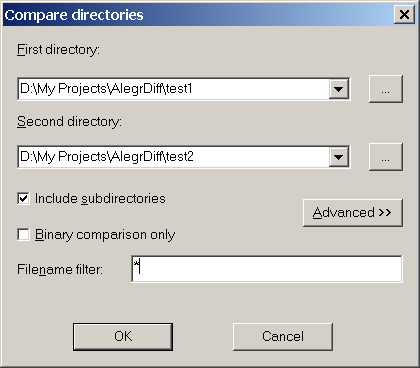
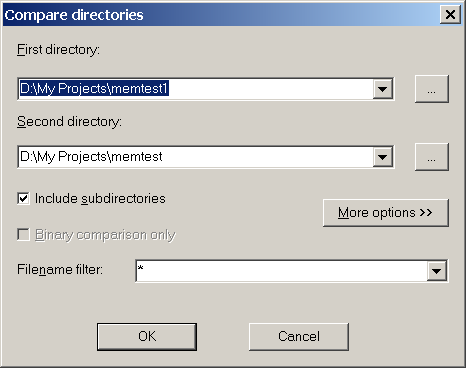
Changed files
Changed file: AlegrDiff.cpp
Changed file: AlegrDiff.rc
Changed file: AlegrDiffDoc.cpp
Changed file: AlegrDiffDoc.h
Changed file: CompareDirsDialog.cpp
Changed file: FileListSupport.cpp
Changed file: FilesCompareDialog.cpp
Changed file: ReadMe.txt
Changed file: help/CompareDirsDlg.png
Changed file: help/TextWithLineNumbers.png
Changed file: help/readme.htm

diff --git a/help/readme.htm b/help/readme.htm
@@ -17,21 +17,21 @@ to merge the text differences from two files.</p>
 another directory, optionally with the subdirectories, or just one file against
 another file. The differences are shown with different font and
 color.</p>
-<p align="left">The files are compared either as text or binary.</p>
+<p align="left">The files are compared either as text or binary. <b>Beta 1.00
+doesn't support binary comparison yet.</b></p>
 <p align="left">To compare just two files, select <font face="Microsoft Sans Serif">File/Compare
-Files</font> command in the menu, or click <img border="0" src="CompareFiles.png" width="16" height="15">
-toolbar button. You will be prompted for the first file, then for the second
-file. The file open dialogs have <b>Recent Dirs</b> combobox, which allows you
-to jump to one of recent folders you used, and <b>Binary comparision</b>
-checkbox:</p>
-<p align="left"><img border="0" src="OpenFirstFile.png" width="600" height="408"></p>
-<p align="left">&nbsp;</p>
+Files...</font> command in the menu, or click <img border="0" src="CompareFiles.png" width="16" height="15">
+toolbar button. You will be presented with <b>Compare Files&nbsp;</b> dialog:</p>
+<p align="left"><img border="0" src="CompareFilesDlg.png" width="504" height="256"></p>
+<p align="left">You can select one of recently used files, by opening the
+combobox list, or browse for file by clicking <img border="0" src="BrowseButton.png" align="center" width="37" height="30">
+button.</p>
 <p align="left">To compare directories, select <b>File/Compare Directories... </b>
 command in the menu, or click <img border="0" src="CompareDirs.png" width="16" height="15">
 toolbar button. In the following dialog you can type in the directory names, or,
-by clicking on the [<b>...] </b>buttons, select them from the directory tree, or
-select from recently used folders.</p>
-<p align="left"><img border="0" src="CompareDirsDlg.png" width="420" height="368"></p>
+browse for directory by clicking <img border="0" src="BrowseButton.png" align="center" width="37" height="30"><b>
+</b>button, or, by opening the combobox list, select from recently used folders.</p>
+<p align="left"><img border="0" src="CompareDirsDlg.png" width="466" height="368"></p>
 <p align="left">In the <b>Filename filter</b> edit box you can specify pattern for the filenames to be included in
 comparison. You can specify one or a
 number of patterns, separated by comma or by semicolon, for example *.c<b> </b>or
@@ -59,7 +59,8 @@ one, by pressing <b>Enter</b> key. The program allows to keep several files open
 which is only in the first or second file is shown with different style and
 color. Default for file 1 text is <font color="#FF0000"><strike>strikethrough,
 red</strike></font>, for file 2 text is <font color="#0000FF"><u>underlined, blue</u></font>.
-You can change this in the <b>Preferences</b> dialog. You can move to the next
+You can change this in the <b>Preferences</b> dialog. The program detects
+inserted and deleted lines, and in-line changes. You can move to the next
 difference by clicking <img border="0" src="NextDiff.png" width="18" height="18">
 button, or by pressing <b>F7</b> key. You can move to the previous difference by
 clicking <img border="0" src="PrevDifference.png" width="18" height="18">
@@ -76,7 +77,7 @@ shows line numbers along with the text. Numbers of lines which are present in
 both files are shown in black, numbers of first-file-only lines are shown in red
 (or whatever color is chosen for the erased text), numbers of second-file-only
 lines are shown in blue:</p>
-<p align="left"><img border="1" src="TextWithLineNumbers.png" width="608" height="155"></p>
+<p align="left"><img border="1" src="TextWithLineNumbers.png" width="735" height="142"></p>
 <p align="left">Toolbar button <img border="0" src="IgnoreWhitespaces.png" width="19" height="20">
 hides whitespace difference. Not all spaces are ignored, but only those which
 don't change the text syntax and meaning. See, for example, the original text:</p>
@@ -101,10 +102,10 @@ the text which goes to the merged file is shown with green background:</p>
 <p align="left"><img border="1" src="MergedText.png" width="436" height="133"></p>
 <p align="left">You can change these colors, by <b>File/Preferences </b>dialog, <b>View</b>
 tab.</p>
-<p align="left">To <b>accept </b>the difference, set the caret on it and select <b>Merge/Accept</b>
-menu command, or click <img border="0" src="AcceptButton.png" width="17" height="17">
-toolbar button, or press <b>Shift+F6</b>. To <b>decline</b> the difference, set
-the caret on it and select <b>Merge/Decline</b> menu command, or click <img border="0" src="DeclineButton.png" width="18" height="18">
+<p align="left">To <b>accept </b>the difference, set the caret on it and select <b>Merge/Merge
+File 1 Text</b> menu command, or click <img border="0" src="AcceptButton.png" width="17" height="17">
+toolbar button, or press <b>Shift+F6</b>. To <b>discard</b> the difference, set
+the caret on it and select <b>Merge/Merge File 2 Text</b> menu command, or click <img border="0" src="DeclineButton.png" width="18" height="18">
 toolbar button, or press <b>F6</b>. You can also do the operation over all the
 differences in the selected text area. Text selection is done by the standard
 keyboard and mouse means. Accept/Decline commands are also available in the
@@ -123,8 +124,48 @@ selecting the corresponding command from <b>File </b>menu. If you change the
 file and save it, you can reload it by pressing <b>F5</b>, to see the most
 current differences. You can enable automatic reload in <b>Preferences</b>
  dialog, <b>Files</b> tab.</p>
-<p align="left">&nbsp;</p>
-<p align="left">&nbsp;</p>
+<p align="left"><b>Setting the preferences</b></p>
+<p align="left">To change file, comparison and view preferences, open <b>Preferences
+</b>dialog by selecting <b>File/Preferences... </b> menu command, or by clicking
+<img border="0" src="PreferencesButton.png" width="18" height="18"> toolbar
+button.</p>
+<p align="left">The <b>Preferences </b>dialog has three tabs: <b> Files</b>, <b>Comparison</b>,
+<b>View</b>. <b>Files </b>tab looks as follows:</p>
+<p align="left"><img border="0" src="FilesPreferences.png" width="482" height="397"></p>
+<p align="left">&quot;Compare the following files as C/C++&quot; checkbox and
+edit field allow to specify files for which C/C++ syntax rules will be used.
+Those rules tell which whitespace can be removed without breaking the syntax.</p>
+
+<p align="left">&quot;Automatically reload modified files&quot; specifies
+whether the program, when it becomes the active application, will check for the
+files last modification time. If any file time changed, the files will be
+automatically reloaded and shown with the new content.</p>
+
+<p align="left"><b>Comparison</b> tab looks as follows:</p>
+
+<p align="left"><img border="0" src="ComparisonTab.png" width="482" height="397"></p>
+
+<p align="left">&quot;Number of consecutive identical lines&quot; specifies how
+many non-blank lines should match when the program looks for identical region.</p>
+
+<p align="left">&quot;Minimal line length for search&quot; specifies minimal
+number of non-space characters in the lines to be checked for single-line match.
+If 1 is specified, even lines with only curly braces will be checked; it may
+cause false detection. Default value is 2.</p>
+<p align="left">&quot;Percent of difference in &quot;looking like&quot;
+lines&quot; specifies how much different lines can be, to be shown as single
+line with in-line differences. The greater is the value, the more different
+lines could be. If two lines are too much different, they will be shown
+separately, as removed and added lines.</p>
+<p align="left">&quot;Minimum matching chars for in-line comparison&quot;
+specifies now many characters should be equal when the program is trying to find
+an identical region, when building list of in-line differences.</p>
+<p align="left"><b>View</b> tab looks as follows:</p>
+<p align="left"><img border="0" src="ViewPreferencesTab.png" width="482" height="397"></p>
+<p align="left">&quot;Tab Indent&quot; specifies now many spaces should be
+substituted for one tab character.</p>
+<p align="left">&quot;Font&quot; and &quot;Background&quot; buttons allow to set
+font and background for the corresponding file view elements.</p>
 
 </body>
 

diff --git a/AlegrDiff.cpp b/AlegrDiff.cpp
@@ -152,7 +152,7 @@ BOOL CAlegrDiffApp::InitInstance()
 	Profile.AddItem(_T("Settings"), _T("CopyFilesDir"), m_CopyFilesDir, _T("."));
 
 	//Profile.AddItem(_T("Settings"), _T("FilenameFilter"), m_sFilenameFilter, _T("*"));
-	Profile.AddItem(_T("Settings"), _T("UseBinaryFilesFilter"), m_bUseBinaryFilesFilter, true);
+	Profile.AddItem(_T("Settings"), _T("UseBinaryFilesFilter"), m_bUseBinaryFilesFilter, false);
 	Profile.AddItem(_T("Settings"), _T("UseCppFilter"), m_bUseCppFilter, true);
 	Profile.AddItem(_T("Settings"), _T("UseIgnoreFilter"), m_bUseIgnoreFilter, true);
 	Profile.AddItem(_T("Settings"), _T("AdvancedCompareDialog"), m_bAdvancedCompareDialog, false);
@@ -415,7 +415,7 @@ void CAlegrDiffApp::OnFilePreferences()
 		m_bUseIgnoreFilter = (0 != dlg.m_FilesPage.m_bUseIgnoreFilter);
 		m_sIgnoreFilesFilter = dlg.m_FilesPage.m_sIgnoreFilesFilter;
 
-		m_AutoReloadChangedFiles = dlg.m_FilesPage.m_AutoReloadChangedFiles;
+		m_AutoReloadChangedFiles = (0 != dlg.m_FilesPage.m_AutoReloadChangedFiles);
 
 		m_TabIndent = dlg.m_ViewPage.m_nTabIndent;
 		m_MinimalLineLength = dlg.m_ComparisionPage.m_MinimalLineLength;
@@ -788,7 +788,7 @@ void CAlegrDiffApp::CompareDirectories(LPCTSTR dir1, LPCTSTR dir2, LPCTSTR filte
 
 		m_TabIndent = dlg.m_nTabIndent;
 
-		m_BinaryComparision = dlg.m_BinaryComparision;
+		m_BinaryComparision = (0 != dlg.m_BinaryComparision);
 
 		m_bAdvancedCompareDialog = dlg.m_bAdvanced;
 
@@ -843,7 +843,7 @@ void CAlegrDiffApp::CompareFiles(LPCTSTR pName1, LPCTSTR pName2)
 		}
 
 		m_UsedFilenameFilter = dlg.m_UsedFilenameFilter;
-		m_BinaryComparision = dlg.m_bBinaryFile;
+		m_BinaryComparision = (0 != dlg.m_bBinaryFile);
 		Name1 = dlg.m_sFirstFileName;
 		Name2 = dlg.m_sSecondFileName;
 	}

diff --git a/FilesCompareDialog.cpp b/FilesCompareDialog.cpp
@@ -114,7 +114,6 @@ void COpenDiffDialog::OnComboSelendOK()
 BOOL COpenDiffDialog::OnFileNameOK()
 {
 	// add the current directory name to MRU
-	int i, j;
 	CThisApp * pApp = GetApp();
 	CString sCurrDir;
 	GetParent()->SendMessage(CDM_GETFOLDERPATH, MAX_PATH, LPARAM(sCurrDir.GetBuffer(MAX_PATH)));
@@ -135,14 +134,29 @@ void COpenDiffDialog::OnInitDone()
 	CComboBox * pCb = static_cast<CComboBox *>(GetDlgItem(IDC_COMBO_RECENT));
 	if (NULL != pCb)
 	{
+		CString dir(m_ofn.lpstrInitialDir);
+		if (dir.GetLength() > 1
+			&& dir[dir.GetLength() - 1] == '\\')
+		{
+			dir.SetAt(dir.GetLength() - 1, 0);
+		}
 		pCb->SetExtendedUI();
 		CThisApp * pApp = GetApp();
+		int sel = -1;
 		for (int i = 0; i < sizeof pApp->m_RecentFolders / sizeof pApp->m_RecentFolders[0]; i++)
 		{
 			if ( ! pApp->m_RecentFolders[i].IsEmpty())
 			{
 				pCb->AddString(pApp->m_RecentFolders[i]);
+				if (0 == pApp->m_RecentFolders[i].CompareNoCase(dir))
+				{
+					sel = i;
+				}
 			}
+		}
+		if (-1 != sel)
+		{
+			pCb->SetCurSel(sel);
 		}
 	}
 }

diff --git a/AlegrDiffDoc.cpp b/AlegrDiffDoc.cpp
@@ -509,6 +509,7 @@ BEGIN_MESSAGE_MAP(CFilePairDoc, CDocument)
 	ON_UPDATE_COMMAND_UI(ID_FILE_COPY_SECOND_DIR_FILE, OnUpdateFileCopySecondDirFile)
 	ON_COMMAND(ID_FILE_COPY_SECOND_DIR_FILE, OnFileCopySecondDirFile)
 	ON_COMMAND(ID_FILE_PROPERTIES, OnFileProperties)
+	ON_UPDATE_COMMAND_UI(ID_FILE_MERGE_SAVE, OnUpdateFileMergeSave)
 	//}}AFX_MSG_MAP
 	ON_UPDATE_COMMAND_UI(ID_INDICATOR_CARET_POS, OnUpdateCaretPosIndicator)
 END_MESSAGE_MAP()
@@ -1812,4 +1813,11 @@ void CFilePairDoc::OnFileProperties()
 
 		dlg.DoModal();
 	}
+}
+
+void CFilePairDoc::OnUpdateFileMergeSave(CCmdUI* pCmdUI)
+{
+	pCmdUI->Enable(m_pFilePair != NULL
+					&& m_pFilePair->pFirstFile != NULL
+					&& m_pFilePair->pSecondFile != NULL);
 }

diff --git a/CompareDirsDialog.cpp b/CompareDirsDialog.cpp
@@ -19,7 +19,7 @@ static char THIS_FILE[] = __FILE__;
 CCompareDirsDialog::CCompareDirsDialog(CWnd* pParent /*=NULL*/)
 	: CDialog(CCompareDirsDialog::IDD, pParent),
 	m_bAdvanced(false),
-	m_bUseBinaryFilesFilter(true),
+	m_bUseBinaryFilesFilter(false),
 	m_bUseCppFilter(true),
 	m_bUseIgnoreFilter(true),
 	m_nTabIndent(4)

diff --git a/FileListSupport.cpp b/FileListSupport.cpp
@@ -2368,8 +2368,10 @@ FilePair::eFileComparisionResult FilePair::CompareFiles()
 	{
 		// just build the line array
 		FileItem * pFile = pFirstFile;
+		result = OnlyFirstFile;
 		if (NULL == pFile)
 		{
+			result = OnlySecondFile;
 			pFile = pSecondFile;
 		}
 		if (NULL != pFile)

diff --git a/AlegrDiffDoc.h b/AlegrDiffDoc.h
@@ -199,6 +199,7 @@ public:
 	afx_msg void OnUpdateFileCopySecondDirFile(CCmdUI* pCmdUI);
 	afx_msg void OnFileCopySecondDirFile();
 	afx_msg void OnFileProperties();
+	afx_msg void OnUpdateFileMergeSave(CCmdUI* pCmdUI);
 	//}}AFX_MSG
 protected:
 	DECLARE_MESSAGE_MAP()
